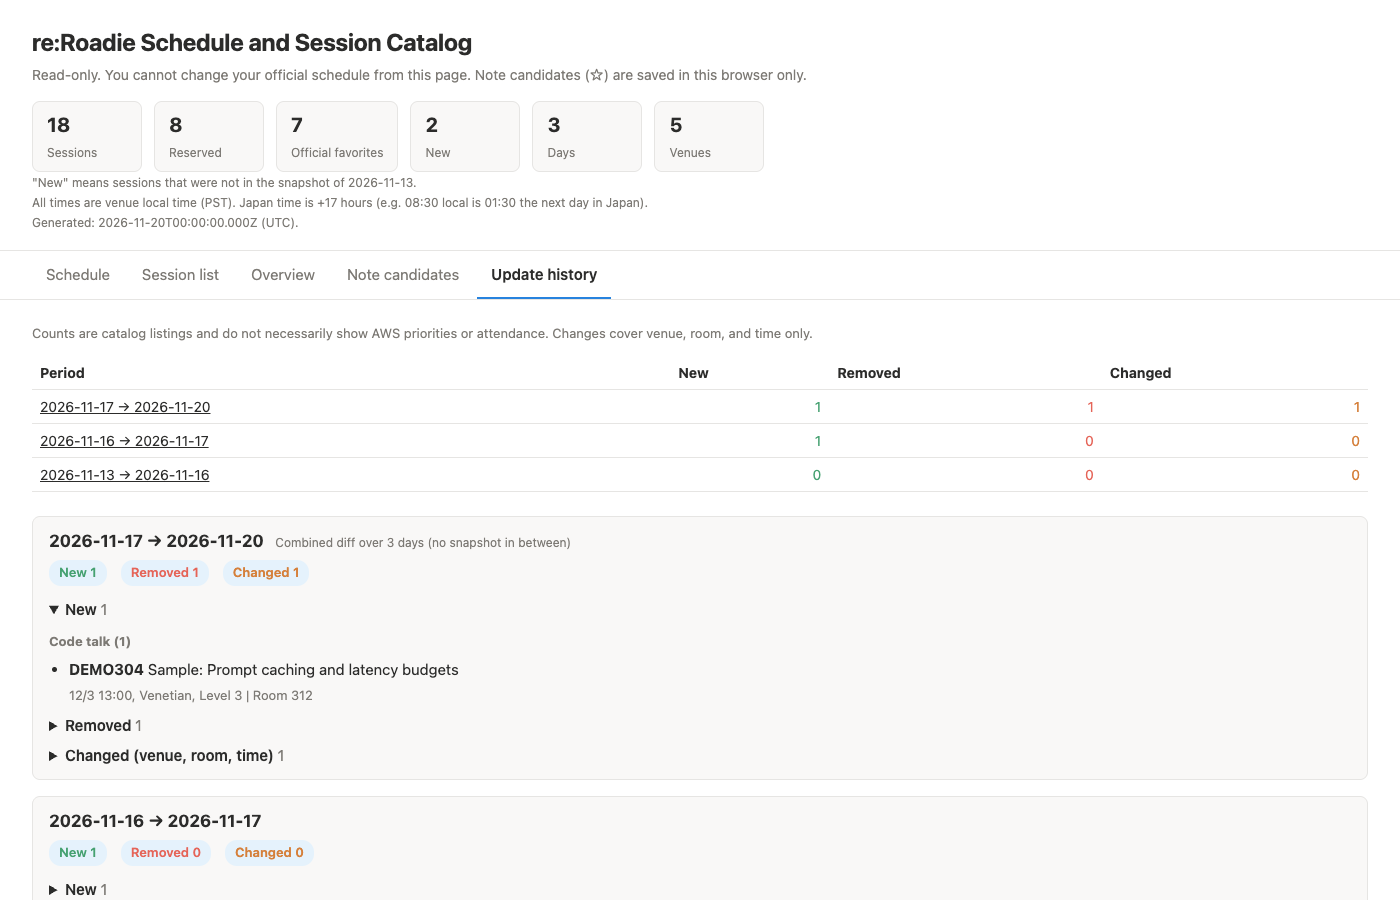
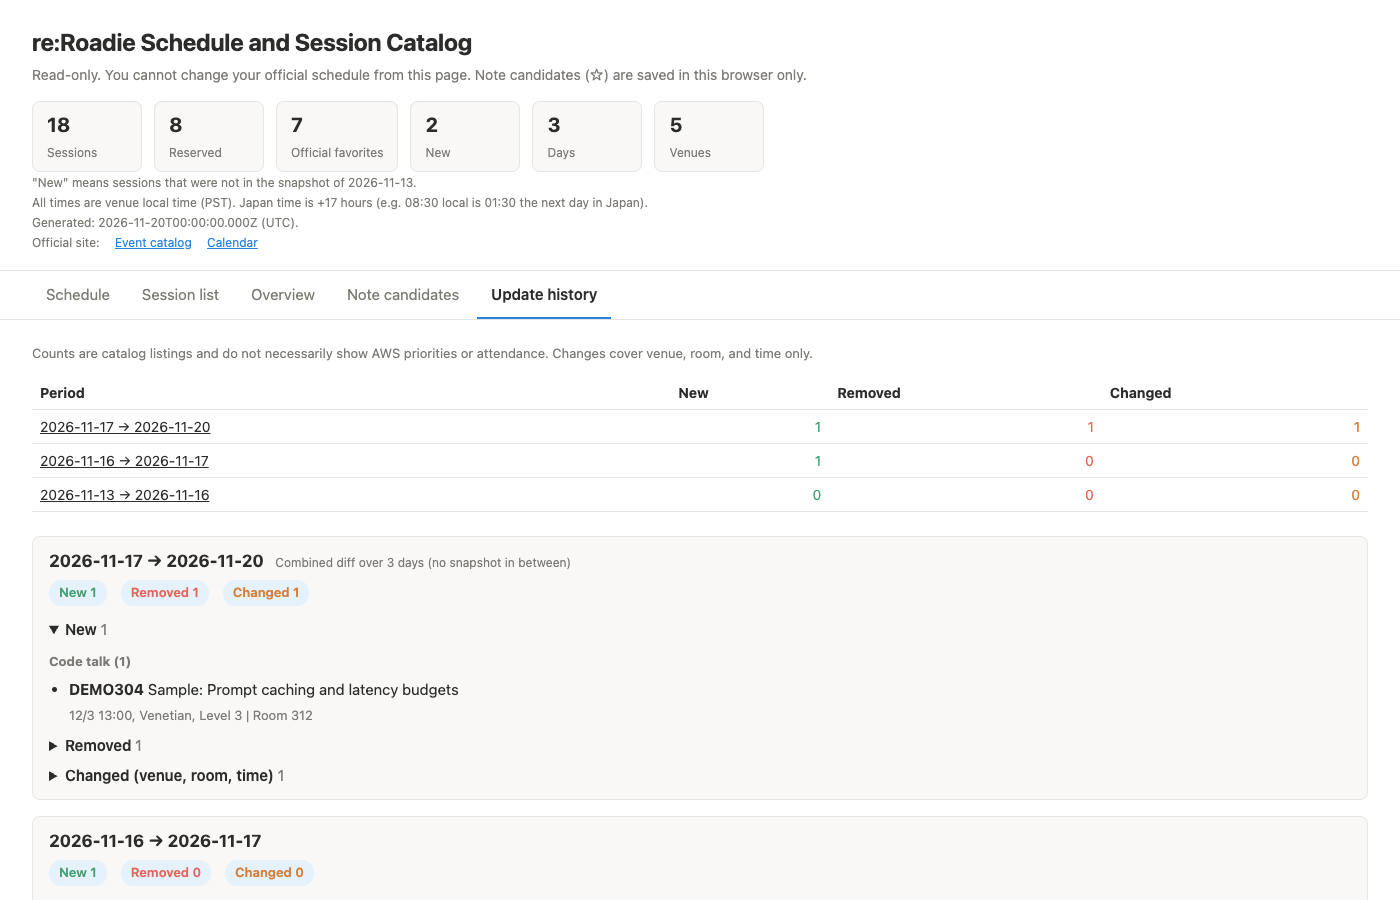
feat: viewのヘッダーに公式サイトへのリンクと、サインイン中のメールを出す
公式サイトへすぐ移れるよう、イベントカタログとカレンダーへのリンクを加える。
また、re:Invent用と別のBuilder IDを使い分けるときに、どのアカウントの予定かを見分けられるよう、
auth login・auth status・MCPのauth系・viewのヘッダーに、サインイン中のメールを出す
（アクセストークンのemailを表示用に読むだけで、保存はしない）。READMEに、アカウントが
複数ある場合の注意を書き、サンプルHTMLと画像を作り直した。

diff --git a/src/cli.ts b/src/cli.ts
@@ -9,6 +9,7 @@ import { signIn, signOut } from './auth/signIn.js';
 import { runSync, runSyncSince } from './commands/sync.js';
 import type { CatalogDiff } from './catalog/diff.js';
 import { runAuthStatus } from './commands/authStatus.js';
+import { emailFromAccessToken } from './auth/accountEmail.js';
 import { runScheduleStatus } from './commands/scheduleStatus.js';
 import { loadDesiredState } from './schedule/desiredStateStore.js';
 import { reconcile } from './schedule/reconcile.js';
@@ -278,9 +279,11 @@ program
     const lang = parseLang(options.lang);
     const snapshot = loadSnapshot(options.eventId, DATA_DIR);
     if (!snapshot) throw new Error(`ローカルスナップショット（${options.eventId}）がありません。先に sync を実行してください`);
-    const result = await runScheduleView(await createClient(), options.eventId, {
+    const client = await createClient(); // トークンの更新もここで済む
+    const result = await runScheduleView(client, options.eventId, {
       snapshot, outPath: options.out, profile: loadProfile(PROFILE_PATH), date: options.date,
       dataDir: DATA_DIR, newSince: options.newSince, lang,
+      account: emailFromAccessToken(getTokenStore().loadRaw()?.accessToken),
     });
     console.log(`保存しました: ${result.path}（予約 ${result.reserved}件 / お気に入り ${result.favorites}件 / 個人予定 ${result.personalTime}件）`);
   });
@@ -504,11 +507,11 @@ notes
 const auth = program.command('auth').description('Builder ID サインインの状態管理');
 auth
   .command('status')
-  .description('サインイン状態を表示する')
+  .description('サインイン状態と、サインイン中のアカウント（メール）を表示する')
   .action(async () => {
     const status = await runAuthStatus(getTokenStore());
     if (status.signedIn) {
-      console.log(`サインイン済み（有効期限: ${status.expiresAt}${status.refreshed ? '、refresh tokenで更新しました' : ''}）`);
+      console.log(`サインイン済み${status.email ? `: ${status.email}` : ''}（有効期限: ${status.expiresAt}${status.refreshed ? '、refresh tokenで更新しました' : ''}）`);
     } else {
       console.log('未サインイン');
     }
@@ -520,7 +523,8 @@ auth
   .action(async () => {
     console.log('ブラウザを開きます。Builder IDでサインインしてください…');
     const token = await signIn(getTokenStore());
-    console.log(`サインインしました（有効期限: ${new Date(token.expiresAt).toISOString()}）`);
+    const email = emailFromAccessToken(token.accessToken);
+    console.log(`サインインしました${email ? `: ${email}` : ''}（有効期限: ${new Date(token.expiresAt).toISOString()}）`);
   });
 
 auth

diff --git a/src/reporting/scheduleHtml.ts b/src/reporting/scheduleHtml.ts
@@ -34,8 +34,13 @@ export interface ScheduleHtmlInput {
   newSessionIds?: string[]; // 「新着」として印を付けるセッション（比較元のスナップショットに無かったもの）
   newBaseline?: string; // 新着の比較元スナップショットの日付（表示用）
   lang?: Lang; // 画面の言語。省略時は日本語（カタログ由来のタイトル・概要は翻訳しない）
+  account?: string; // サインイン中のメール。指定するとヘッダーに出す（サンプルでは指定しない）
   digestPeriods?: DigestPeriod[]; // 「更新履歴」タブ。日別スナップショットの隣り合う日どうしの差分（新しい期間が先）。省略時はタブを出さない
 }
+
+// 公式サイトへのリンク（クリックしたときだけ開く。ページの読み込み時に外部へ通信しない）
+const OFFICIAL_CATALOG_URL = 'https://registration.awsevents.com/flow/awsevents/reinvent2026/event-catalog/page/eventCatalog';
+const OFFICIAL_CALENDAR_URL = 'https://aws.amazon.com/jp/events/reinvent/calendar/';
 
 const DIGEST_TAB_MAX_PERIODS = 14; // ファイルを重くしないため、タブに載せるのは直近の期間だけ
 
@@ -411,6 +416,7 @@ details.f[open] summary::after{content:"－"}
 .acts{display:flex;gap:8px;flex-wrap:wrap;margin-top:8px}
 .more{display:flex;justify-content:center;margin:16px}
 .note{font-size:12px;color:var(--tx2);margin:2px 0}
+.offlinks a{margin-left:12px;color:var(--ac)}
 .empty{padding:48px;text-align:center;color:var(--tx2)}
 .ov{display:grid;grid-template-columns:repeat(auto-fit,minmax(320px,1fr));gap:16px}
 .panel{border:1px solid var(--bd);border-radius:10px;padding:16px}
@@ -557,7 +563,8 @@ export function buildScheduleHtml(input: ScheduleHtmlInput): string {
 <div class="stats" id="stats"></div>
 <p class="note" id="newNote"></p>
 <p class="note">${P.timezoneNote}</p>
-<p class="note">${esc(P.created(input.generatedAt.toISOString()))}</p></header>
+<p class="note">${esc(P.created(input.generatedAt.toISOString()))}</p>
+${input.account ? `<p class="note">${esc(P.signedInAs(input.account))}</p>\n` : ''}<p class="note offlinks">${esc(P.officialLinksLabel)} <a href="${OFFICIAL_CATALOG_URL}" target="_blank" rel="noopener noreferrer">${esc(P.linkOfficialCatalog)}</a> <a href="${OFFICIAL_CALENDAR_URL}" target="_blank" rel="noopener noreferrer">${esc(P.linkOfficialCalendar)}</a></p></header>
 <nav class="tabs" role="tablist">
 <button class="tab on" data-v="sched" role="tab">${P.tabSchedule}</button>
 <button class="tab" data-v="list" role="tab">${P.tabList}</button>

diff --git a/tests/reporting/scheduleHtml.test.ts b/tests/reporting/scheduleHtml.test.ts
@@ -20,6 +20,24 @@ describe('buildScheduleHtml', () => {
   const a = session('a', 'AIM101', '2026-11-30', '08:30', '60', 'MGM Grand');
   const b = session('b', 'AIM102', '2026-12-01', '10:00', '60', 'Venetian');
 
+  it('ヘッダーに公式サイトのカタログとカレンダーへのリンクを、新しいタブで開く形で出す（日英）', () => {
+    const base = { schedule: schedule([]), sessions: [a, b], generatedAt: GENERATED_AT };
+    for (const [lang, label] of [['ja', 'イベントカタログ'], ['en', 'Event catalog']] as const) {
+      const out = buildScheduleHtml({ ...base, lang });
+      expect(out).toContain('href="https://registration.awsevents.com/flow/awsevents/reinvent2026/event-catalog/page/eventCatalog" target="_blank" rel="noopener noreferrer">' + label);
+      expect(out).toContain('href="https://aws.amazon.com/jp/events/reinvent/calendar/" target="_blank" rel="noopener noreferrer"');
+    }
+  });
+
+  it('account を指定したときだけ、ヘッダーにサインイン中のメールを（エスケープして）出す', () => {
+    const base = { schedule: schedule([]), sessions: [a, b], generatedAt: GENERATED_AT };
+    expect(buildScheduleHtml(base)).not.toContain('この予定のアカウント');
+
+    expect(buildScheduleHtml({ ...base, account: 'me@example.com' })).toContain('この予定のアカウント: me@example.com');
+    expect(buildScheduleHtml({ ...base, account: 'me@example.com', lang: 'en' })).toContain('Account for this schedule: me@example.com');
+    expect(buildScheduleHtml({ ...base, account: '<b>x</b>@example.com' })).toContain('&lt;b&gt;x&lt;/b&gt;@example.com');
+  });
+
   it('digestPeriods があるときだけ「更新履歴」タブを出し、日英で表示する', () => {
     const periods = [{ from: '2026-10-01', to: '2026-10-02', diff: { added: [b], removed: [], changed: [] } }];
     const base = { schedule: schedule([]), sessions: [a, b], generatedAt: GENERATED_AT };

diff --git a/src/reporting/i18n.ts b/src/reporting/i18n.ts
@@ -265,6 +265,10 @@ export interface PageStrings {
   subtitle: string;
   timezoneNote: string;
   created: (iso: string) => string;
+  signedInAs: (email: string) => string;
+  officialLinksLabel: string;
+  linkOfficialCatalog: string;
+  linkOfficialCalendar: string;
   tabSchedule: string;
   tabList: string;
   tabOverview: string;
@@ -312,6 +316,10 @@ const PAGE_JA: PageStrings = {
   subtitle: '参照専用です。この画面から公式の予定は変更できません。☆のメモ候補はこのブラウザだけに保存されます。',
   timezoneNote: '時刻はすべて会場現地時間（PST）です。日本時間は +17時間（例: 現地 08:30 は日本時間 翌日 01:30）。',
   created: (iso) => `作成: ${iso}（UTC）。`,
+  signedInAs: (email) => `この予定のアカウント: ${email}`,
+  officialLinksLabel: '公式サイト:',
+  linkOfficialCatalog: 'イベントカタログ',
+  linkOfficialCalendar: 'カレンダー',
   tabSchedule: '予定',
   tabList: 'セッション一覧',
   tabOverview: '全体像',
@@ -359,6 +367,10 @@ const PAGE_EN: PageStrings = {
   subtitle: 'Read-only. You cannot change your official schedule from this page. Note candidates (☆) are saved in this browser only.',
   timezoneNote: 'All times are venue local time (PST). Japan time is +17 hours (e.g. 08:30 local is 01:30 the next day in Japan).',
   created: (iso) => `Generated: ${iso} (UTC).`,
+  signedInAs: (email) => `Account for this schedule: ${email}`,
+  officialLinksLabel: 'Official site:',
+  linkOfficialCatalog: 'Event catalog',
+  linkOfficialCalendar: 'Calendar',
   tabSchedule: 'Schedule',
   tabList: 'Session list',
   tabOverview: 'Overview',

diff --git a/src/mcp/tools.ts b/src/mcp/tools.ts
@@ -3,6 +3,7 @@ import { join } from 'node:path';
 import { stringify } from 'yaml';
 import { runSync, runSyncSince } from '../commands/sync.js';
 import { runAuthStatus } from '../commands/authStatus.js';
+import { emailFromAccessToken } from '../auth/accountEmail.js';
 import { runScheduleStatus } from '../commands/scheduleStatus.js';
 import { reconcile } from '../schedule/reconcile.js';
 import { hasPlanChanges, saveScheduleBackup } from '../schedule/backup.js';
@@ -53,7 +54,8 @@ export async function authStatusTool() {
 
 export async function authLoginTool() {
   const token = await signIn(getTokenStore());
-  return { signedIn: true, expiresAt: new Date(token.expiresAt).toISOString() };
+  const email = emailFromAccessToken(token.accessToken);
+  return { signedIn: true, ...(email ? { email } : {}), expiresAt: new Date(token.expiresAt).toISOString() };
 }
 
 export async function authLogoutTool() {
@@ -158,8 +160,10 @@ export async function scheduleApplyTool(reserve: string[] | undefined, favorite:
 export async function scheduleViewTool(date?: string, eventId?: string, newSince?: string, lang?: string) {
   const id = resolveEventId(eventId);
   const snapshot = requireSnapshot(id);
-  return runScheduleView(await createClient(), id, {
+  const client = await createClient(); // トークンの更新もここで済む
+  return runScheduleView(client, id, {
     snapshot, outPath: SCHEDULE_HTML_PATH, profile: loadProfile(PROFILE_PATH), date, dataDir: DATA_DIR, newSince, lang: parseLang(lang),
+    account: emailFromAccessToken(getTokenStore().loadRaw()?.accessToken),
   });
 }
 

diff --git a/src/commands/authStatus.ts b/src/commands/authStatus.ts
@@ -1,8 +1,10 @@
 import type { TokenStore } from '../auth/tokenStore.js';
 import { ensureAccessToken } from '../auth/signIn.js';
+import { emailFromAccessToken } from '../auth/accountEmail.js';
 
 export interface AuthStatus {
   signedIn: boolean;
+  email?: string; // サインイン中の Builder ID のメール（表示用。取り出せないときは付かない）
   expiresAt?: string; // ISO8601（auth_loginと形式を揃える）
   refreshed?: boolean; // アクセストークン期限切れをrefresh tokenで更新した場合のみtrue
 }
@@ -16,12 +18,17 @@ export async function runAuthStatus(
   refresh: (store: TokenStore) => Promise<string | undefined> = ensureAccessToken,
 ): Promise<AuthStatus> {
   const valid = tokenStore.load();
-  if (valid) return { signedIn: true, expiresAt: new Date(valid.expiresAt).toISOString() };
+  if (valid) return { signedIn: true, ...withEmail(valid.accessToken), expiresAt: new Date(valid.expiresAt).toISOString() };
 
   if (!tokenStore.loadRaw()?.refreshToken) return { signedIn: false };
   if (!(await refresh(tokenStore))) return { signedIn: false };
 
   const renewed = tokenStore.load();
   if (!renewed) return { signedIn: false };
-  return { signedIn: true, expiresAt: new Date(renewed.expiresAt).toISOString(), refreshed: true };
+  return { signedIn: true, ...withEmail(renewed.accessToken), expiresAt: new Date(renewed.expiresAt).toISOString(), refreshed: true };
+}
+
+function withEmail(accessToken: string): { email?: string } {
+  const email = emailFromAccessToken(accessToken);
+  return email ? { email } : {};
 }

diff --git a/docs/sample/schedule-sample.html b/docs/sample/schedule-sample.html
@@ -82,6 +82,7 @@ details.f[open] summary::after{content:"－"}
 .acts{display:flex;gap:8px;flex-wrap:wrap;margin-top:8px}
 .more{display:flex;justify-content:center;margin:16px}
 .note{font-size:12px;color:var(--tx2);margin:2px 0}
+.offlinks a{margin-left:12px;color:var(--ac)}
 .empty{padding:48px;text-align:center;color:var(--tx2)}
 .ov{display:grid;grid-template-columns:repeat(auto-fit,minmax(320px,1fr));gap:16px}
 .panel{border:1px solid var(--bd);border-radius:10px;padding:16px}
@@ -182,7 +183,8 @@ details.f[open] summary::after{content:"－"}
 <div class="stats" id="stats"></div>
 <p class="note" id="newNote"></p>
 <p class="note">時刻はすべて会場現地時間（PST）です。日本時間は +17時間（例: 現地 08:30 は日本時間 翌日 01:30）。</p>
-<p class="note">作成: 2026-11-20T00:00:00.000Z（UTC）。</p></header>
+<p class="note">作成: 2026-11-20T00:00:00.000Z（UTC）。</p>
+<p class="note offlinks">公式サイト: <a href="https://registration.awsevents.com/flow/awsevents/reinvent2026/event-catalog/page/eventCatalog" target="_blank" rel="noopener noreferrer">イベントカタログ</a> <a href="https://aws.amazon.com/jp/events/reinvent/calendar/" target="_blank" rel="noopener noreferrer">カレンダー</a></p></header>
 <nav class="tabs" role="tablist">
 <button class="tab on" data-v="sched" role="tab">予定</button>
 <button class="tab" data-v="list" role="tab">セッション一覧</button>

diff --git a/docs/sample/schedule-sample.en.html b/docs/sample/schedule-sample.en.html
@@ -82,6 +82,7 @@ details.f[open] summary::after{content:"－"}
 .acts{display:flex;gap:8px;flex-wrap:wrap;margin-top:8px}
 .more{display:flex;justify-content:center;margin:16px}
 .note{font-size:12px;color:var(--tx2);margin:2px 0}
+.offlinks a{margin-left:12px;color:var(--ac)}
 .empty{padding:48px;text-align:center;color:var(--tx2)}
 .ov{display:grid;grid-template-columns:repeat(auto-fit,minmax(320px,1fr));gap:16px}
 .panel{border:1px solid var(--bd);border-radius:10px;padding:16px}
@@ -182,7 +183,8 @@ details.f[open] summary::after{content:"－"}
 <div class="stats" id="stats"></div>
 <p class="note" id="newNote"></p>
 <p class="note">All times are venue local time (PST). Japan time is +17 hours (e.g. 08:30 local is 01:30 the next day in Japan).</p>
-<p class="note">Generated: 2026-11-20T00:00:00.000Z (UTC).</p></header>
+<p class="note">Generated: 2026-11-20T00:00:00.000Z (UTC).</p>
+<p class="note offlinks">Official site: <a href="https://registration.awsevents.com/flow/awsevents/reinvent2026/event-catalog/page/eventCatalog" target="_blank" rel="noopener noreferrer">Event catalog</a> <a href="https://aws.amazon.com/jp/events/reinvent/calendar/" target="_blank" rel="noopener noreferrer">Calendar</a></p></header>
 <nav class="tabs" role="tablist">
 <button class="tab on" data-v="sched" role="tab">Schedule</button>
 <button class="tab" data-v="list" role="tab">Session list</button>

diff --git a/src/helpText.ts b/src/helpText.ts
@@ -16,6 +16,8 @@ const NOTES: Record<string, string[]> = {
     '  予約・個人予定・移動時間・空席・希望レベル・スポンサー除外・参加日の条件に合わないものは対象外',
     'メモ候補: ☆で付けたブラウザ内のメモ。公式の予定・予約には反映されない',
     '更新履歴: 日別スナップショットの隣り合う日どうしの差分。直近14期間まで。view を作り直した時点の内容',
+    'ヘッダーに、サインイン中のアカウント（メール）を出す。HTML にメールが入るので、他の人に渡すときは注意する',
+    'ヘッダーに、公式サイトのイベントカタログとカレンダーへのリンクを出す（クリックしたときだけ開く。セッションごとのリンクはない）',
     '「新着」の比較元は、既定では今日より前で最新の日付別スナップショット',
     '外部のスクリプト・スタイルは読み込まない。カタログ全件を埋め込むため約2.7MB。data/*.html はコミットしない',
   ],

diff --git a/src/commands/scheduleView.ts b/src/commands/scheduleView.ts
@@ -14,6 +14,7 @@ export interface ScheduleViewOptions {
   outPath: string;
   profile?: Profile;
   date?: string; // 会場PSTの "YYYY-MM-DD"。「予定」タブをその日だけにする。省略時は全日
+  account?: string; // サインイン中の Builder ID のメール。指定すると、ヘッダーに出す（どのアカウントの予定かを見分けるため）
   dataDir?: string; // 日付別スナップショットの場所。指定すると、比較元との差分を「新着」にする
   newSince?: string; // 新着の比較元にするスナップショットの日付。省略時は今日より前で最新の日付
   lang?: Lang; // 画面の言語。省略時は日本語
@@ -60,6 +61,7 @@ export async function runScheduleView(client: ApiClient, eventId: string, option
     newSessionIds: news.ids,
     newBaseline: news.baseline,
     lang: options.lang,
+    account: options.account,
     digestPeriods: options.dataDir ? buildDigest(eventId, options.dataDir) : undefined,
   });
   mkdirSync(dirname(options.outPath), { recursive: true });

diff --git a/tests/auth/accountEmail.test.ts b/tests/auth/accountEmail.test.ts
@@ -1,0 +1,21 @@
+import { describe, it, expect } from 'vitest';
+import { emailFromAccessToken } from '../../src/auth/accountEmail.js';
+
+const jwt = (claims: object): string =>
+  ['header', Buffer.from(JSON.stringify(claims)).toString('base64url'), 'signature'].join('.');
+
+describe('emailFromAccessToken', () => {
+  it('JWT の email を返す', () => {
+    expect(emailFromAccessToken(jwt({ email: 'user@example.com', sub: 'x' }))).toBe('user@example.com');
+  });
+  it('email が無い、文字列でない、@ が無いときは undefined', () => {
+    expect(emailFromAccessToken(jwt({ sub: 'x' }))).toBeUndefined();
+    expect(emailFromAccessToken(jwt({ email: 123 }))).toBeUndefined();
+    expect(emailFromAccessToken(jwt({ email: 'no-at-sign' }))).toBeUndefined();
+  });
+  it('JWT でない、壊れている、未指定のときも落ちずに undefined', () => {
+    expect(emailFromAccessToken('not-a-jwt')).toBeUndefined();
+    expect(emailFromAccessToken('a.%%%.c')).toBeUndefined();
+    expect(emailFromAccessToken(undefined)).toBeUndefined();
+  });
+});

diff --git a/tests/commands/authStatus.test.ts b/tests/commands/authStatus.test.ts
@@ -26,6 +26,13 @@ describe('runAuthStatus', () => {
     expect(await runAuthStatus(store, vi.fn())).toEqual({ signedIn: true, expiresAt: new Date(expiresAt).toISOString() });
   });
 
+  it('アクセストークンに email があれば、サインイン中のアカウントとして返す', async () => {
+    const expiresAt = Date.now() + 3600_000;
+    const accessToken = ['h', Buffer.from(JSON.stringify({ email: 'me@example.com' })).toString('base64url'), 's'].join('.');
+    store.save({ accessToken, expiresAt });
+    expect(await runAuthStatus(store, vi.fn())).toEqual({ signedIn: true, email: 'me@example.com', expiresAt: new Date(expiresAt).toISOString() });
+  });
+
   it('アクセストークン期限切れでもrefresh tokenで更新できればsignedIn: true（refreshed: true）', async () => {
     store.save({ accessToken: 'old', refreshToken: 'rt', expiresAt: Date.now() - 1000 });
     const newExpiresAt = Date.now() + 3600_000;
